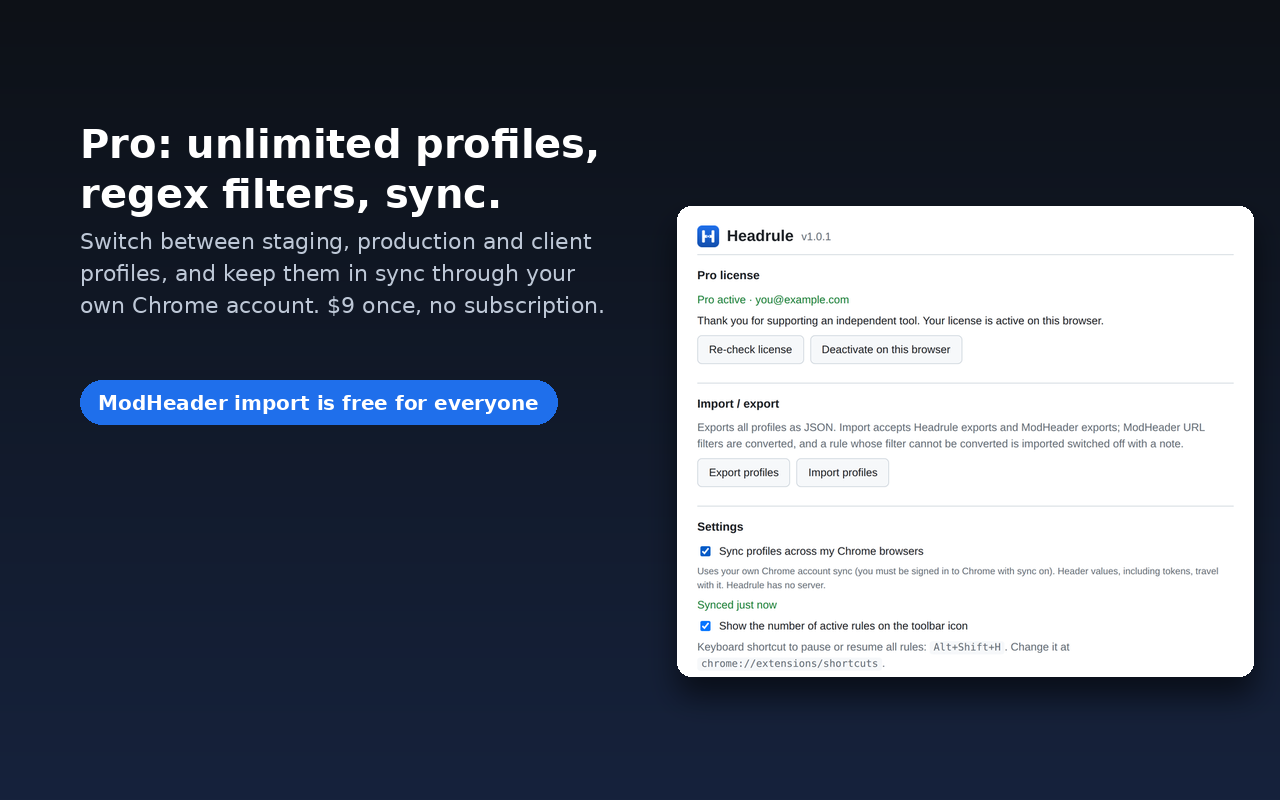
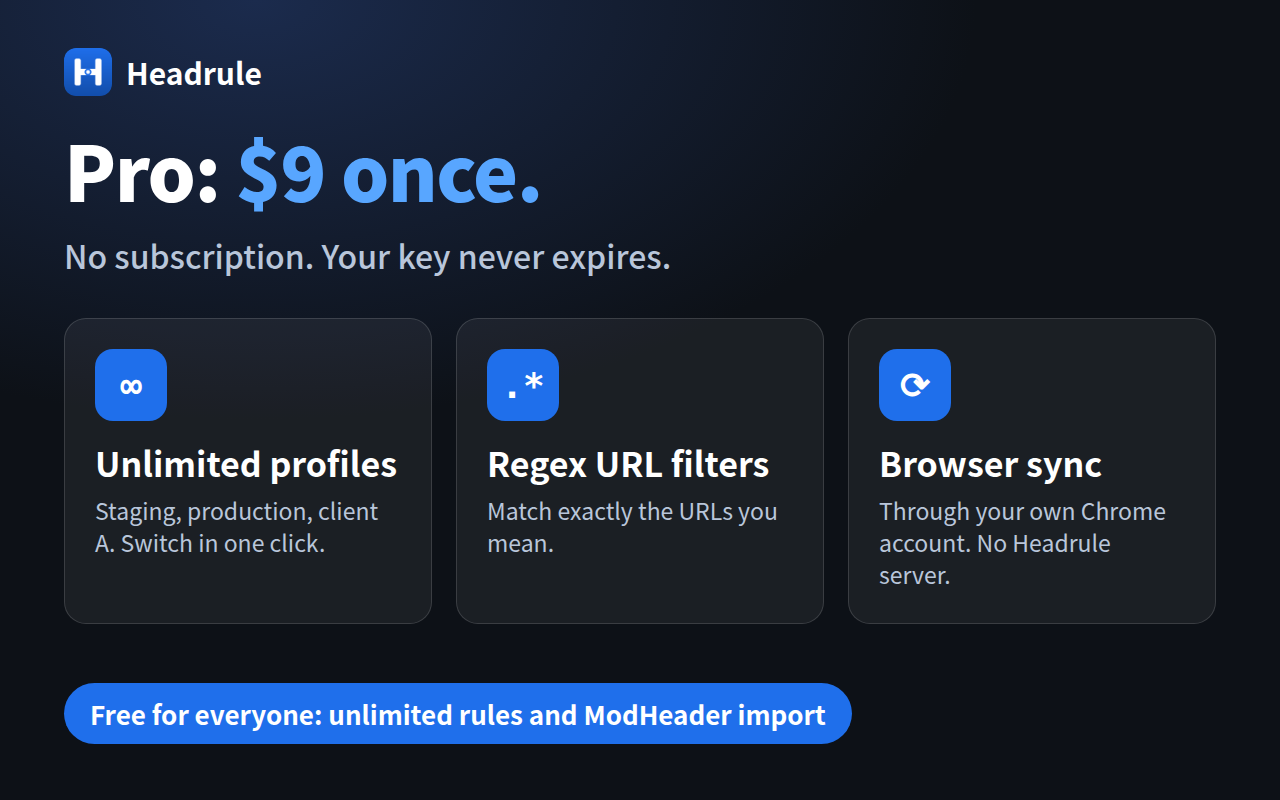
Store screenshots redrawn for readability at preview size
Big headline, one idea per image: the popup at 1100px with highlight boxes,
three trust points, three Pro features plus free ModHeader import.
Rendered from HTML by scripts/store_shots.mjs.

Claude-Session: https://claude.ai/code/session_01Aoh9VnSDh1ui5H1CqZPicR

diff --git a/HANDOVER.md b/HANDOVER.md
@@ -131,7 +131,7 @@ npm run bump 1.0.1   버전 올리기
 3. **Lemon Squeezy 상품 설명에서 sync 빼기 (사람).** 1.0.0의 동기화는 고장이라 1.0.1이 공개될 때까지 팔지 않습니다
 4. **1.0.0 게시 버튼 (사람).** 조용히 게시만 합니다. 홍보는 하지 않습니다
 5. **1.0.1 제출 (사람).** 개발자 대시보드 → Headrule → 왼쪽 "패키지" → "새 패키지 업로드" → `dist\headrule-1.0.1.zip` → "스토어 등록정보" 탭에서 요약·설명을 `store/listing.md` 의 새 문구로 교체 → "개인정보 보호" 탭의 storage 사유도 새 문구로 교체 → "검토를 위해 제출". 이번에도 "검토 통과 후 자동 게시"는 끄고 제출합니다
-6. **1.0.1 승인 후 스크린샷 교체 (사람).** 대시보드 → 스토어 등록정보 → 스크린샷에서 기존 3장을 지우고 `store/screenshot-1~3-1280x800.png` 새 파일을 순서대로 올린 뒤 저장. 3번이 가장 중요합니다(가져오기 무료, Pro는 프로필·정규식·동기화). 1·2번은 "no reload", "Nothing leaves your browser" 같은 부정확한 문구를 고친 것. 다시 만들 때는 `node scripts/capture_pro_options.mjs && node test/smoke.mjs --shots && python3 scripts/make_screenshots.py`
+6. **1.0.1 승인 후 스크린샷 교체 (사람).** 대시보드 → 스토어 등록정보 → 스크린샷에서 기존 3장을 지우고 `store/screenshot-1~3-1280x800.png` 새 파일을 순서대로 올린 뒤 저장. 3번이 가장 중요합니다(가져오기 무료, Pro는 프로필·정규식·동기화). 세 장 모두 스토어 미리보기(작은 크기)에서도 읽히도록 제목 76px, 핵심 한 가지만 크게 보이게 다시 그렸습니다(1번은 실제 팝업을 크게 + 강조 상자, 2번은 신뢰 3가지, 3번은 Pro 3가지 + "가져오기 무료"). 다시 만들 때는 `node test/smoke.mjs --shots && node scripts/store_shots.mjs` (`scripts/make_screenshots.py` 는 옛 방식)
 7. **1.0.1 승인 후:** 게시 버튼 → Claude에게 "1.0.1 게시했어"라고 말하면 `site-1.0.1` 브랜치를 main에 합치고(가져오기 무료, 필터 가져오기, Pro에 sync 복귀), 설치 버튼을 스토어 주소로 바꾸고, "in review" 문장을 지웁니다 → Lemon Squeezy 설명에 sync 다시 넣기 → 그다음 홍보(5-8)
 
 설치 버튼 교체 내용: 상단 `#installLink`, 가격표 Free 카드 `#installLinkFree` 를 스토어 주소로, 상단 버튼 글자는 "Add to Chrome, it's free"로 바꿉니다.
